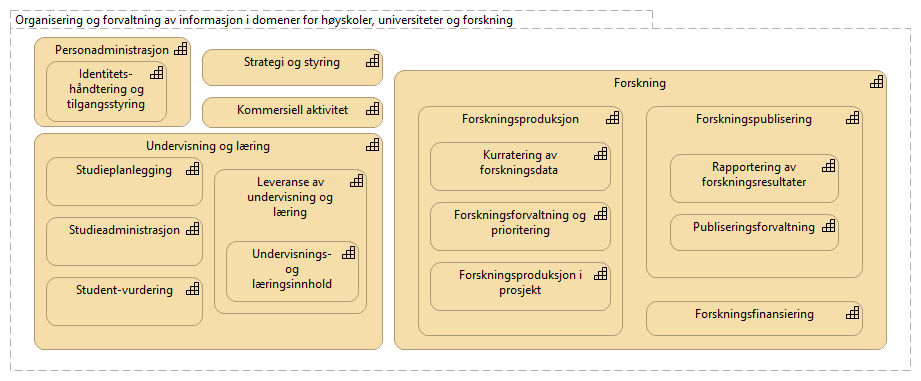
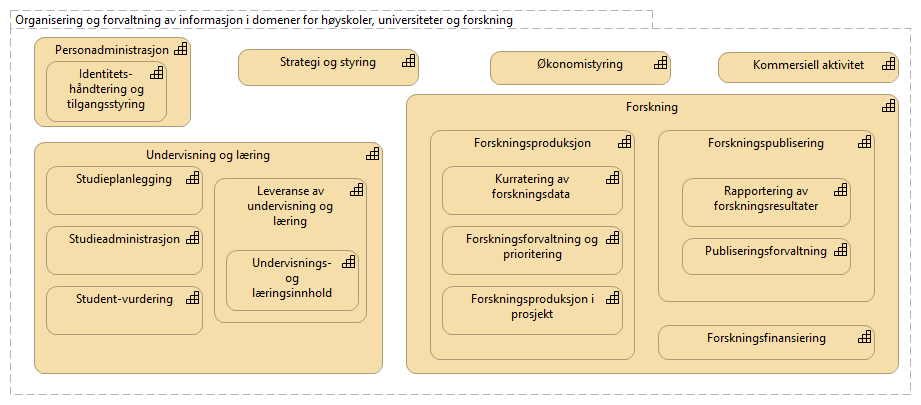
Dev

diff --git a/unit-ra/main/unit-ra-datadeling-tilnærming/Organisering og forvaltning av informasjon i domener for høyskoler, universiteter og forskning.var.1.html b/unit-ra/main/unit-ra-datadeling-tilnærming/Organisering og forvaltning av informasjon i domener for høyskoler, universiteter og forskning.var.1.html
@@ -356,6 +356,15 @@ Gå tilbake til standardvisning ved å klikke 'tilbake' (eller lukk dette vindue
 <p>What the organization does to manage data on IT systems and applications about users. Managed data includes user objects, identity attributes, security entitlements and authentication factors.</p>
 </div></div></td>
 </tr>
+<tr>
+<td class="tableblock halign-left valign-top"><p class="tableblock">Økonomistyring</p></td>
+<td class="tableblock halign-left valign-top"><div class="content"><div class="paragraph">
+<p>Alle aktiviteter som er rettet mot effektiv styring av penger (midler) på en slik måte at organisasjonen kan oppnå sine mål.</p>
+</div>
+<div class="paragraph">
+<p>EUNIS: Finance Management</p>
+</div></div></td>
+</tr>
 </tbody>
 </table>
 <div class="sidebarblock">

diff --git a/unit-ra/main/Bøker/Referansearkitektur for deling av data i høyere utdanning og forsking.html b/unit-ra/main/Bøker/Referansearkitektur for deling av data i høyere utdanning og forsking.html
@@ -157,7 +157,7 @@
 </div>
 <div class="listingblock">
 <div class="content">
-<pre>Tue May 25 2021 16:15:29 GMT+0200 (CEST)</pre>
+<pre>Mon May 31 2021 10:47:19 GMT+0200 (CEST)</pre>
 </div>
 </div>
 </div>
